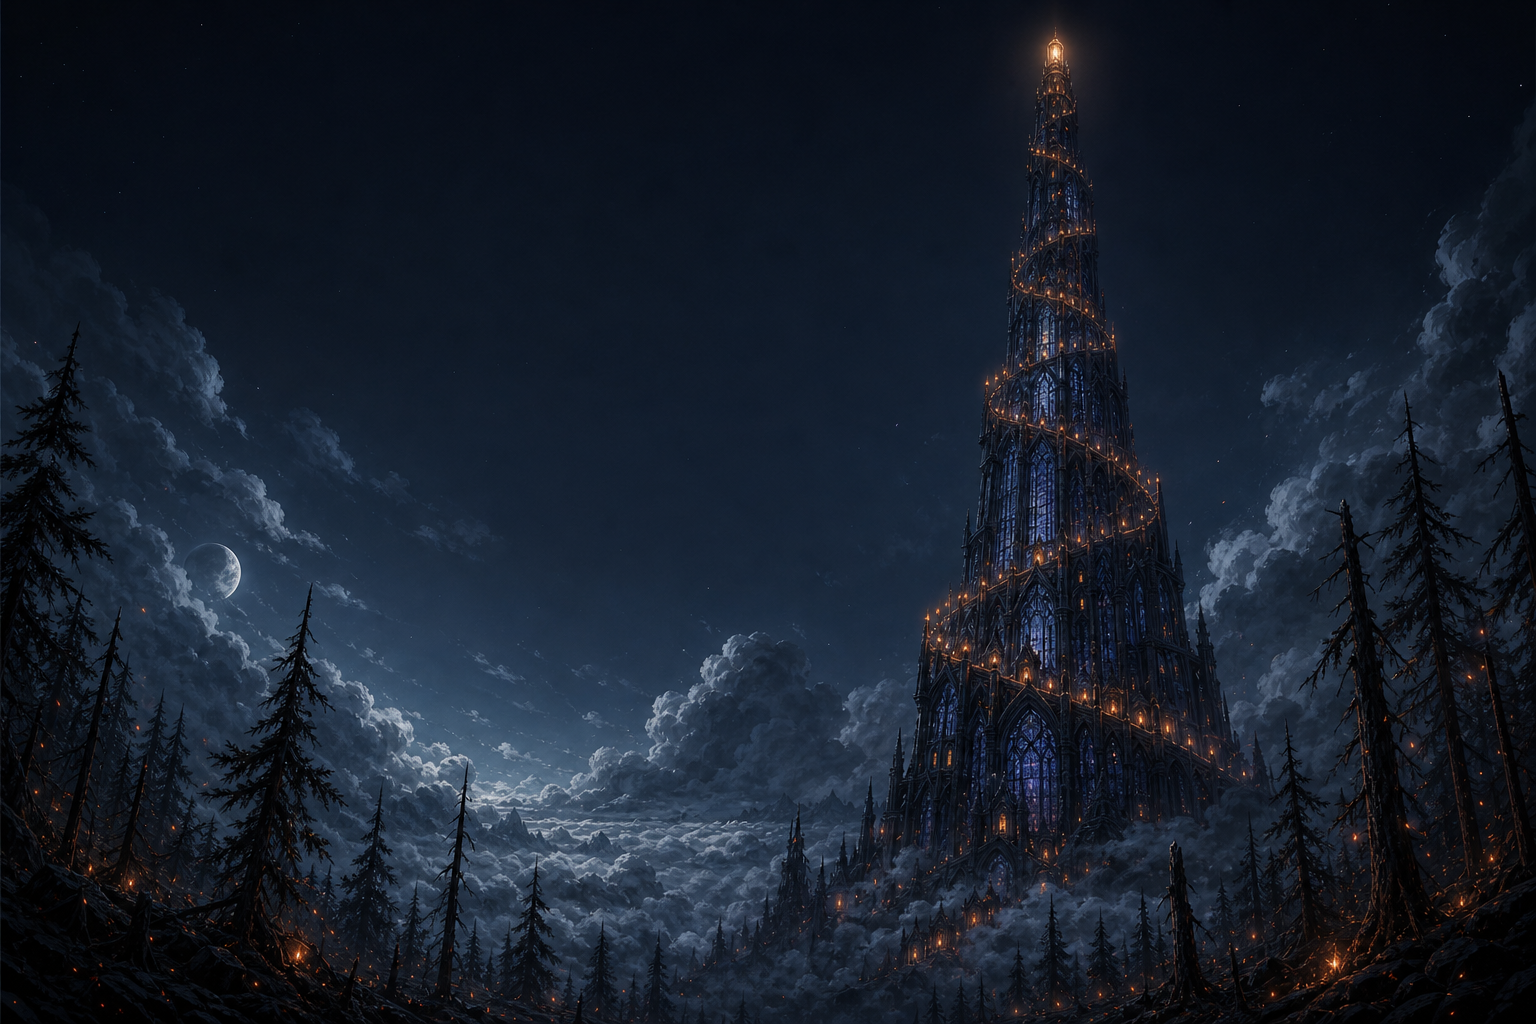
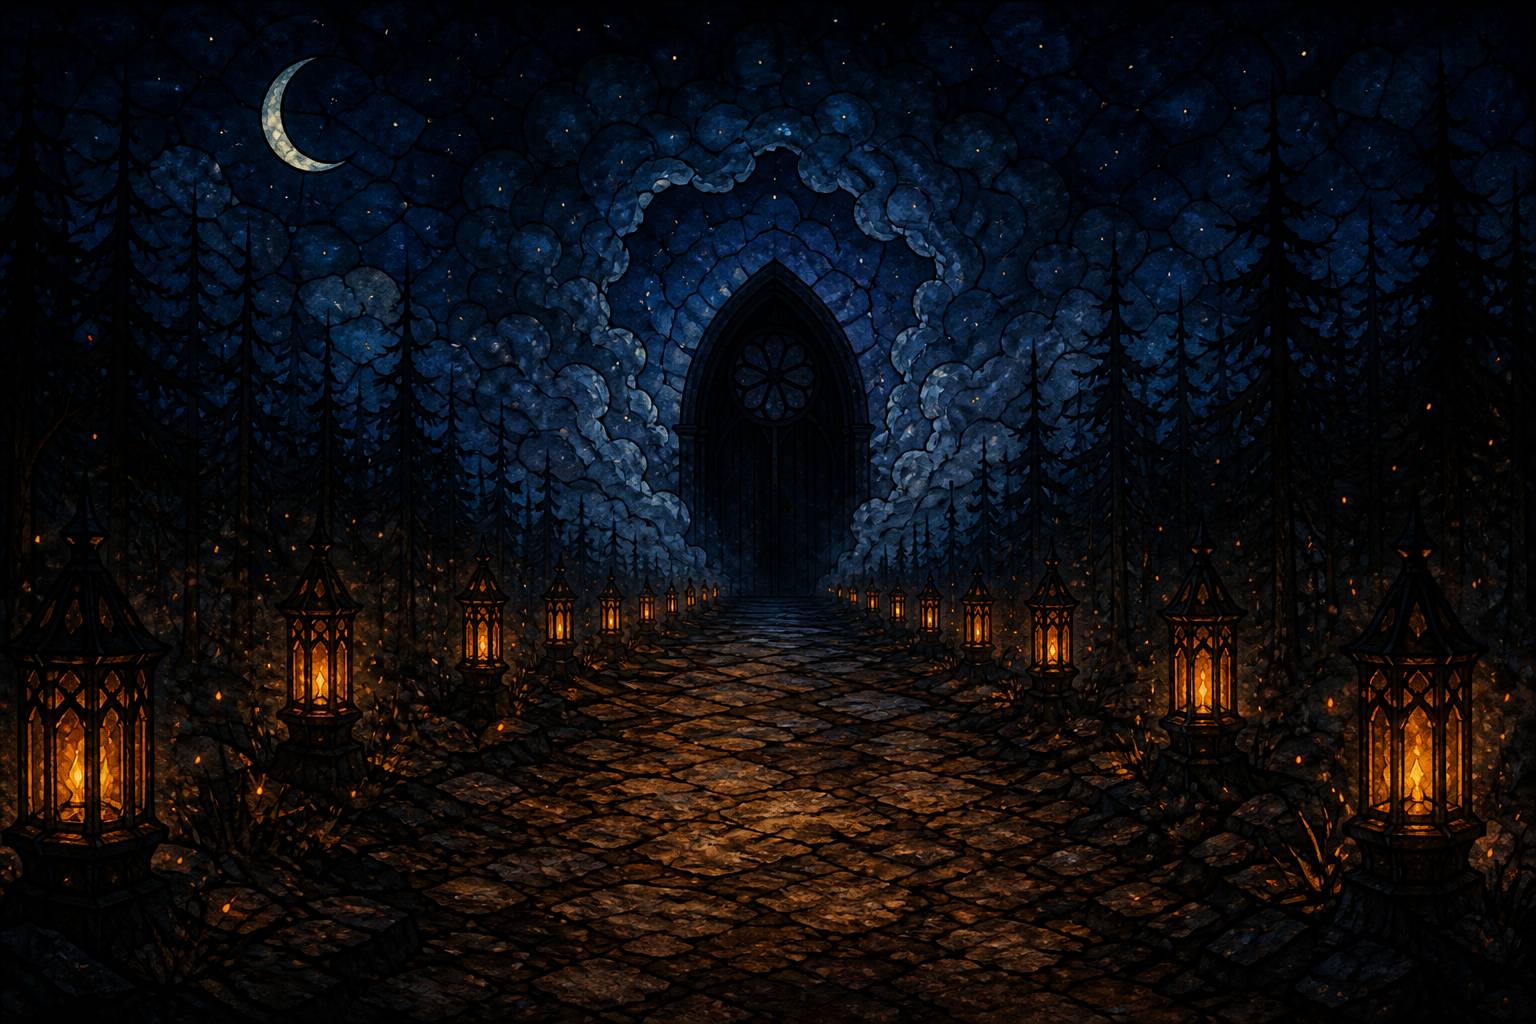
feat: replace the title tower with the pilgrimage road and sealed door (#304)
The lathed spire, its sister, and the 120 window lights are gone. TitleWorld
now projects a road receding east to the sealed door, with lanterns along it,
so the eight menu surfaces match the pilgrimage world.

diff --git a/docs/art-ledger.md b/docs/art-ledger.md
@@ -546,6 +546,44 @@ Prompt (binding clauses):
 > lantern, NO star, NO books, NO paired lamps. Warm amber / ash-grey;
 > amber rim from the LEFT.
 
+### `title-background/background.png` — 1536×1024 RGB — title banner plate
+
+The translucent title banner (`choice_screen.gd`, opacity 0.35) that sits
+over the living `TitleWorld`. Import `compress/mode=0`, no mipmaps, **RGB
+with no alpha** — the banner drop-shadow is a closed-form blur of an opaque
+rectangle; an alpha channel would change that contract.
+
+Replaced 2026-08-17 for #304. The previous plate was a gothic lathed spire
+wreathed in a lit switchback stair (Tier A banned: stair as *the road*).
+The new plate is the same world the procedural backdrop now draws: a
+horizontal pilgrimage road receding east to a sealed gothic door, lanterns
+along both verges, forest closing the frame, cloud sea, night sky. No
+tower, no spire, no wrapping stair.
+
+Style block, landscape (not a character cutout):
+
+> Serious cartoon-gothic stained-glass game art: night landscape, chunky
+> dark silhouettes, 3-5 large jewel-tone colour masses, matte painterly
+> texture, warm amber lantern light, soft controlled glow. No text, no
+> labels, no watermark, no UI.
+
+Subject:
+
+> A HORIZONTAL pilgrimage road receding toward a distant SEALED gothic
+> pointed-arch door, night, dark forest of bare pines closing left and
+> right. Warm amber lanterns in two ranks along the road, leading the eye
+> to the door. The door is a solid near-black silhouette with a faint
+> six-petal rose-window hint in its upper arch — sealed, not open. Cloud
+> sea around the door, deep midnight-blue sky, a thin pale crescent moon
+> far left. Ember motes in the near air. The road is packed earth, slightly
+> warmer than the ground, running from the bottom of the frame to the
+> door at the vanishing point. NO tower, NO spire, NO castle, NO wrapping
+> staircase, NO switchback stair, NO vertical building as the subject.
+> Opaque RGB, edge to edge, no transparency.
+
+Generated 2026-08-17 through Cursor `GenerateImage`. Cropped/resized to
+1536×1024 RGB so the banner's contain-fit and drop-shadow stay valid.
+
 ## Rejection note — what "technically shippable" means
 
 Judging generated character art by eye is not enough; two of the five
